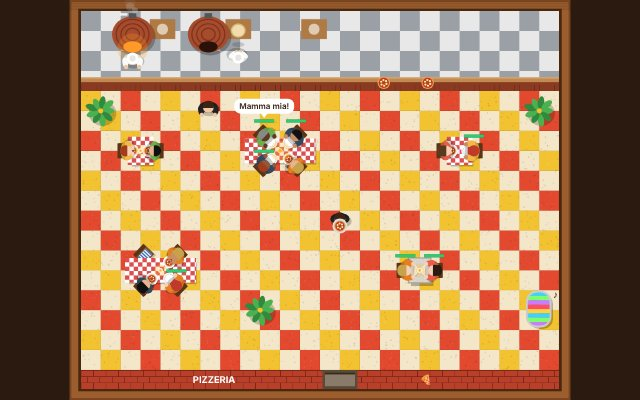
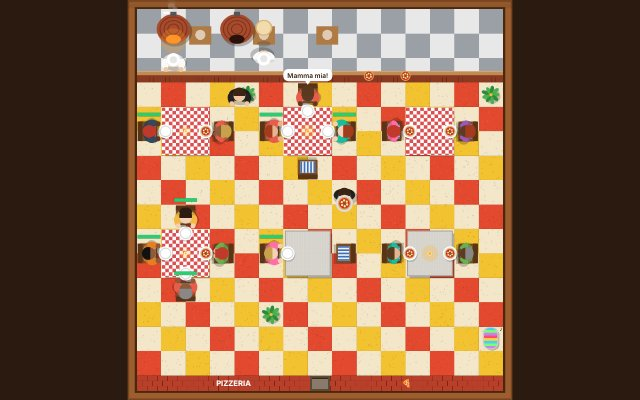
Pizzabaas: kleinere zaak van 15 x 15 grotere tegels, zoals in het origineel
Claude-Session: https://claude.ai/code/session_016yiCbYbiJxj3wDkRW1beUn

diff --git a/pizzabaas.html b/pizzabaas.html
@@ -87,23 +87,28 @@ const lees = (k) => { try { return JSON.parse(localStorage.getItem(k)); } catch 
 const schrijf = (k, v) => { try { localStorage.setItem(k, JSON.stringify(v)); } catch (e) {} };
 
 // ---------- de wereld ----------
-const W = 12, H = 9, T = 64;          // vakjes en pixels per vakje
-const KEUKEN = 2;                     // rijen 0 en 1
-const DEUR = { x: 6, y: 8 };          // de deur zit in de onderste muur
+const W = 15, H = 15, T = 48;         // 15 x 15 vloertegels (zoals in het oude spel), pixels per tegel
+const KEUKEN = 3;                     // rijen 0 t/m 2 zijn de keuken
+const DEUR = { x: 7, y: 15 };         // de deur zit in de onderste muur
 const DAG = 120;                      // seconden per werkdag
 const HUUR = 60, LOON = 15, PRIJS = 9, BAKTIJD = 5, ETEN = 8, GEDULD = 25;
 
 const SPUL = {
-  tafel2: { n: 'Tafeltje voor 2', ik: '🪑', prijs: 50, w: 1, h: 1 },
-  tafel4: { n: 'Tafel voor 4', ik: '🍽', prijs: 90, w: 2, h: 1 },
+  tafel2: { n: 'Tafeltje voor 2', ik: '🪑', prijs: 50, w: 4, h: 2 }, // stoel, tafel van 2 x 2, stoel
+  tafel4: { n: 'Tafel voor 4', ik: '🍽', prijs: 90, w: 4, h: 4 },  // tafel van 2 x 2 met aan elke kant een stoel
   plant: { n: 'Plant', ik: '🪴', prijs: 20, w: 1, h: 1 },
   jukebox: { n: 'Jukebox', ik: '🎵', prijs: 150, w: 1, h: 1, een: true },
 };
 const EXTRA = { kleed: { n: 'Kleedje', ik: '🟥', prijs: 10 }, kaars: { n: 'Kaarsje', ik: '🕯', prijs: 8 } };
 const PERSONEEL = { oven: { n: 'Extra oven', ik: '🔥', prijs: 250, max: 3 }, ober: { n: 'Extra ober', ik: '🤵', prijs: 200, max: 3, loon: true } };
 
-const NIEUW = () => ({ geld: 300, dag: 1, rep: 20, ovens: 1, obers: 1, spullen: [{ t: 'tafel2', x: 3, y: 4 }, { t: 'tafel2', x: 8, y: 4 }], best: 0 });
+const BEGIN = () => [{ t: 'tafel2', x: 2, y: 6 }, { t: 'tafel2', x: 9, y: 6 }];
+const NIEUW = () => ({ versie: 2, geld: 300, dag: 1, rep: 20, ovens: 1, obers: 1, spullen: BEGIN(), best: 0 });
 let S = lees(SLEUTEL) || (speler && lees('pizzabaas')) || NIEUW();
+if (S.versie != 2) { // de zaak is kleiner geworden met grotere tegels: oude spullen terugbetalen en opnieuw beginnen met twee tafeltjes
+  S.geld += S.spullen.reduce((a, s) => a + (SPUL[s.t] ? SPUL[s.t].prijs : 0) + (s.kleed ? 10 : 0) + (s.kaars ? 8 : 0), 0) - 100;
+  S.spullen = BEGIN(); S.versie = 2;
+}
 const bewaar = () => { if (!TEGEL) schrijf(SLEUTEL, S); };
 
 // ---------- teksten ----------
@@ -121,7 +126,7 @@ const ZEG = {
 const vrij = (x, y, w, h, behalve) => {
   for (let i = 0; i < w; i++) for (let j = 0; j < h; j++) {
     const a = x + i, b = y + j;
-    if (a < 0 || a >= W || b < KEUKEN || b >= H - 1) return false;
+    if (a < 0 || a >= W || b < KEUKEN || b >= H) return false;
     if (a == DEUR.x && b == DEUR.y - 1) return false; // voor de deur vrijhouden
     for (const s of S.spullen) if (s != behalve && a >= s.x && a < s.x + SPUL[s.t].w && b >= s.y && b < s.y + SPUL[s.t].h) return false;
   }
@@ -129,15 +134,16 @@ const vrij = (x, y, w, h, behalve) => {
 };
 const op = (x, y) => S.spullen.find((s) => x >= s.x && x < s.x + SPUL[s.t].w && y >= s.y && y < s.y + SPUL[s.t].h);
 const isTafel = (s) => s.t == 'tafel2' || s.t == 'tafel4';
-function stoelen(s) { // plekken (in vakjes, middelpunt) waar klanten zitten
-  if (s.t == 'tafel2') return [[s.x + 0.14, s.y + 0.5], [s.x + 0.86, s.y + 0.5]];
-  if (s.t == 'tafel4') return [[s.x + 0.6, s.y + 0.12], [s.x + 1.4, s.y + 0.12], [s.x + 0.6, s.y + 0.88], [s.x + 1.4, s.y + 0.88]];
+function stoelen(s) { // plekken (in tegels, middelpunt) waar klanten zitten
+  if (s.t == 'tafel2') return [[s.x + 0.5, s.y + 1], [s.x + 3.5, s.y + 1]];
+  if (s.t == 'tafel4') return [[s.x + 2, s.y + 0.5], [s.x + 2, s.y + 3.5], [s.x + 0.5, s.y + 2], [s.x + 3.5, s.y + 2]];
   return [];
 }
+const midden = (s) => [s.x + SPUL[s.t].w / 2, s.y + SPUL[s.t].h / 2];
 function gezellig(s) { // 1 tot 6 sterretjes
   let g = 1 + (s.kleed ? 1 : 0) + (s.kaars ? 1 : 0);
-  const cx = s.x + SPUL[s.t].w / 2, cy = s.y + 0.5;
-  g += Math.min(2, S.spullen.filter((p) => p.t == 'plant' && Math.hypot(p.x + 0.5 - cx, p.y + 0.5 - cy) <= 2.3).length);
+  const [cx, cy] = midden(s);
+  g += Math.min(2, S.spullen.filter((p) => p.t == 'plant' && Math.hypot(p.x + 0.5 - cx, p.y + 0.5 - cy) <= 3.6).length);
   if (S.spullen.some((p) => p.t == 'jukebox')) g += 1;
   return g;
 }
@@ -150,28 +156,28 @@ let tel = {};
 let kies = null; // wat er gekocht en neergezet wordt
 
 function maakPersoneel() {
-  obers = []; for (let i = 0; i < S.obers; i++) obers.push({ x: 6 + i * 0.7, y: 2.4, thuis: [6 + i * 0.7, 2.4], taak: null, draagt: null });
+  obers = []; for (let i = 0; i < S.obers; i++) obers.push({ x: 7 + i, y: KEUKEN + 0.5, thuis: [7 + i, KEUKEN + 0.5], taak: null, draagt: null });
   ovens = []; for (let i = 0; i < S.ovens; i++) ovens.push(maakOven(i));
 }
 // per oven een kok: die rolt het deeg uit en gooit het op (aan de werkbank naast de oven), schuift de pizza in de oven
 // en brengt hem als hij klaar is naar de toonbank, waar een ober hem ophaalt
-const KOK_HUIS = (i) => [1.3 + i * 1.9, 1.2], BANK = (i) => [2.05 + i * 1.9, 1.15], TOONBANK = (i) => [7.6 + i * 1.1, 1.6];
-function maakOven(i) { const [x, y] = KOK_HUIS(i); return { i, x: 1.3 + i * 1.9, bezig: null, t: 0, fase: 'leeg', kok: { x, y, kijk: Math.PI / 2 } }; }
+const KOK_HUIS = (i) => [1.5 + i * 2.6, 2.1], BANK = (i) => [2.6 + i * 2.6, 2], TOONBANK = (i) => [9.5 + i * 1.5, 2.6];
+function maakOven(i) { const [x, y] = KOK_HUIS(i); return { i, x: 1.5 + i * 2.6, bezig: null, t: 0, fase: 'leeg', kok: { x, y, kijk: Math.PI / 2 } }; }
 const DEEG = 1.6;
 function stapOven(o, dt) {
   const k = o.kok;
   if (o.fase == 'leeg') {
-    beweeg(k, KOK_HUIS(o.i), 1.6, dt); k.poets = (k.poets || 0) + dt;
+    beweeg(k, KOK_HUIS(o.i), 2.2, dt); k.poets = (k.poets || 0) + dt;
     const b = wachtrij.shift(); if (b) { o.bezig = b; o.t = 0; o.fase = 'deeg'; }
   } else if (o.fase == 'deeg') { // naar de werkbank, deeg uitrollen en opgooien
-    if (beweeg(k, BANK(o.i), 1.8, dt)) { o.t += dt; k.gooi = o.t; if (o.t >= DEEG) { o.fase = 'inschuiven'; k.gooi = 0; } }
+    if (beweeg(k, BANK(o.i), 2.4, dt)) { o.t += dt; k.gooi = o.t; if (o.t >= DEEG) { o.fase = 'inschuiven'; k.gooi = 0; } }
   } else if (o.fase == 'inschuiven') {
-    if (beweeg(k, [o.x, 1.05], 1.8, dt)) { o.fase = 'bak'; o.t = 0; ding(300, 0.08, 'triangle', 0.05); }
+    if (beweeg(k, [o.x, 1.7], 2.4, dt)) { o.fase = 'bak'; o.t = 0; ding(300, 0.08, 'triangle', 0.05); }
   } else if (o.fase == 'bak') {
-    o.t += dt; beweeg(k, KOK_HUIS(o.i), 1.2, dt);
+    o.t += dt; beweeg(k, KOK_HUIS(o.i), 1.8, dt);
     if (o.t >= BAKTIJD - DEEG) { o.fase = 'breng'; k.draagt = true; ding(1200, 0.05); }
   } else if (o.fase == 'breng') {
-    if (beweeg(k, TOONBANK(o.i), 2, dt)) { o.bezig.plek = TOONBANK(o.i); klaar.push(o.bezig); o.bezig = null; k.draagt = false; o.fase = 'leeg'; }
+    if (beweeg(k, TOONBANK(o.i), 2.8, dt)) { o.bezig.plek = TOONBANK(o.i); klaar.push(o.bezig); o.bezig = null; k.draagt = false; o.fase = 'leeg'; }
   }
   if (o.bezig && !mensen.includes(o.bezig.m)) { o.bezig = null; k.draagt = false; k.gooi = 0; o.fase = 'leeg'; } // klant al weg
 }
@@ -248,7 +254,7 @@ function stap(dt) {
 
   for (const m of [...mensen]) {
     m.t += dt;
-    if (m.st == 'loop' && beweeg(m, m.doel, 2.2, dt)) {
+    if (m.st == 'loop' && beweeg(m, m.doel, 3, dt)) {
       m.st = 'wacht'; m.t = 0; m.bestelling = { m, klaar: false };
       wachtrij.push(m.bestelling);
       if (Math.random() < 0.25) { const g = gezellig(m.tafel); if (g >= 4) zeg(m, R(ZEG.gezellig)); else if (g <= 1) zeg(m, R(ZEG.kaal)); }
@@ -262,18 +268,18 @@ function stap(dt) {
       S.geld += PRIJS + fooi; tel.omzet += PRIJS; tel.fooi += fooi; tel.blij++; S.rep = Math.min(100, S.rep + (m.wacht < 12 ? 0.8 : 0.3));
       muntjes.push({ x: m.x, y: m.y, t: 1.2, tekst: '+€' + Math.round(PRIJS + fooi) }); kassa();
       m.st = 'weg'; m.doel = [DEUR.x + 0.5, H + 0.6];
-    } else if (m.st == 'weg' && beweeg(m, m.doel, 2.2, dt)) mensen.splice(mensen.indexOf(m), 1);
+    } else if (m.st == 'weg' && beweeg(m, m.doel, 3, dt)) mensen.splice(mensen.indexOf(m), 1);
   }
   // ovens bakken wat er besteld is
   for (const o of ovens) stapOven(o, dt);
   // obers brengen de pizza's rond
   for (const ob of obers) {
     if (!ob.taak && klaar.length) { ob.taak = klaar.shift(); ob.fase = 'halen'; ob.taak.m.onderweg = true; }
-    if (!ob.taak) { beweeg(ob, ob.thuis, 2.6, dt); continue; }
+    if (!ob.taak) { beweeg(ob, ob.thuis, 3.4, dt); continue; }
     const m = ob.taak.m;
     if (!mensen.includes(m) || m.st != 'wacht') { ob.taak = null; ob.draagt = null; continue; }
-    if (ob.fase == 'halen') { if (beweeg(ob, [ob.taak.plek[0], 2.3], 2.6, dt)) { ob.fase = 'brengen'; ob.draagt = true; } }
-    else if (beweeg(ob, [m.x + (m.x < m.tafel.x + SPUL[m.tafel.t].w / 2 ? 0.35 : -0.35), m.y], 2.6, dt)) {
+    if (ob.fase == 'halen') { if (beweeg(ob, [ob.taak.plek[0], KEUKEN + 0.4], 3.4, dt)) { ob.fase = 'brengen'; ob.draagt = true; } }
+    else if (beweeg(ob, [m.x + (m.x < midden(m.tafel)[0] ? -0.6 : 0.6) * (m.tafel.t == 'tafel2' ? 1 : 0), m.y + (m.tafel.t == 'tafel4' ? (m.y < midden(m.tafel)[1] ? -0.6 : 0.6) : 0.7)], 3.4, dt)) {
       m.st = 'eet'; m.wacht = m.t; tel.wacht += m.t; tel.wachtN++; m.t = 0; m.onderweg = false; ob.taak = null; ob.draagt = null;
       if (Math.random() < 0.35) zeg(m, R(ZEG.eten));
     }
@@ -305,17 +311,17 @@ const achter = document.createElement('canvas'); achter.width = WW; achter.heigh
   const a = achter.getContext('2d');
   let zaad = 7; const rnd = () => (zaad = (zaad * 16807) % 2147483647) / 2147483647;
   // vloer: tegeltjes van een half vakje, om en om wit met rood of geel
-  const t = T / 2;
-  for (let y = KEUKEN * 2; y < H * 2; y++) for (let x = 0; x < W * 2; x++) {
+  const t = T;
+  for (let y = KEUKEN; y < H; y++) for (let x = 0; x < W; x++) {
     a.fillStyle = (x + y) % 2 ? '#f3e6c9' : (Math.floor(x / 2) + Math.floor(y / 2)) % 2 ? '#e2492f' : '#f2c230';
     a.fillRect(x * t, y * t, t, t);
-    for (let k = 0; k < 14; k++) { a.fillStyle = `rgba(${rnd() < 0.5 ? '0,0,0' : '255,255,255'},${0.05 + rnd() * 0.08})`; a.fillRect(x * t + rnd() * t, y * t + rnd() * t, 2, 2); }
+    for (let k = 0; k < 30; k++) { a.fillStyle = `rgba(${rnd() < 0.5 ? '0,0,0' : '255,255,255'},${0.05 + rnd() * 0.08})`; a.fillRect(x * t + rnd() * t, y * t + rnd() * t, 2, 2); }
     a.fillStyle = 'rgba(0,0,0,.08)'; a.fillRect(x * t, y * t + t - 1, t, 1); a.fillRect(x * t + t - 1, y * t, 1, t);
   }
   // keuken: grijs-witte tegels
-  for (let y = 0; y < KEUKEN * 2; y++) for (let x = 0; x < W * 2; x++) { a.fillStyle = (x + y) % 2 ? '#e8e8e8' : '#9aa0a6'; a.fillRect(x * t, y * t, t, t); }
+  for (let y = 0; y < KEUKEN; y++) for (let x = 0; x < W; x++) { a.fillStyle = (x + y) % 2 ? '#e8e8e8' : '#9aa0a6'; a.fillRect(x * t, y * t, t, t); }
   // werkbanken met deeg en meel
-  for (let i = 0; i < 3; i++) { const [bx, by] = BANK(i); a.fillStyle = '#b07a45'; a.fillRect((bx - 0.32) * T, (by - 0.95) * T, 0.64 * T, 0.5 * T); a.fillStyle = 'rgba(255,255,255,.6)'; a.beginPath(); a.arc(bx * T, (by - 0.7) * T, 9, 0, 7); a.fill(); }
+  for (let i = 0; i < 3; i++) { const [bx, by] = BANK(i); a.fillStyle = '#b07a45'; a.fillRect((bx - 0.45) * T, (by - 1.3) * T, 0.9 * T, 0.75 * T); a.fillStyle = 'rgba(255,255,255,.6)'; a.beginPath(); a.arc(bx * T, (by - 0.95) * T, 10, 0, 7); a.fill(); }
   // toonbank: houten blad op bakstenen
   a.fillStyle = '#8b3a22'; a.fillRect(0, KEUKEN * T - 20, WW, 20);
   a.fillStyle = 'rgba(0,0,0,.25)'; for (let x = 0; x < WW; x += 16) a.fillRect(x + ((x / 16) % 2) * 8, KEUKEN * T - 10, 1, 10);
@@ -335,7 +341,7 @@ function pizza(x, y, r, half) {
   g.fillStyle = '#3c8d2f'; for (let i = 0; i < 3; i++) { const a = i * 2.1 + 1; g.beginPath(); g.arc(x + Math.cos(a) * r * 0.25, y + Math.sin(a) * r * 0.25, r * 0.1, 0, 7); g.fill(); }
   if (half) { g.fillStyle = '#fff'; g.beginPath(); g.moveTo(x, y); g.arc(x, y, r + 1, -0.3, 2.2); g.fill(); }
 }
-function bord(x, y, vol, half) { g.fillStyle = 'rgba(0,0,0,.15)'; g.beginPath(); g.arc(x + 1, y + 2, 10, 0, 7); g.fill(); g.fillStyle = '#fff'; g.beginPath(); g.arc(x, y, 10, 0, 7); g.fill(); g.strokeStyle = '#d8d8d8'; g.lineWidth = 1.5; g.beginPath(); g.arc(x, y, 7.5, 0, 7); g.stroke(); if (vol) pizza(x, y, 7, half); }
+function bord(x, y, vol, half) { g.save(); g.translate(x, y); g.scale(1.4, 1.4); x = 0; y = 0; g.fillStyle = 'rgba(0,0,0,.15)'; g.beginPath(); g.arc(x + 1, y + 2, 10, 0, 7); g.fill(); g.fillStyle = '#fff'; g.beginPath(); g.arc(x, y, 10, 0, 7); g.fill(); g.strokeStyle = '#d8d8d8'; g.lineWidth = 1.5; g.beginPath(); g.arc(x, y, 7.5, 0, 7); g.stroke(); if (vol) pizza(x, y, 7, half); g.restore(); }
 // een poppetje van bovenaf dat de kant van `kijk` op kijkt: schouders, armpjes, hoofd met haar aan de achterkant
 function poppetje(p, opties = {}) {
   const kijk = p.kijk ?? Math.PI / 2, loop = p.loopT ? Math.sin(p.loopT * 12) : 0;
@@ -355,16 +361,17 @@ function poppetje(p, opties = {}) {
   g.restore();
   if (opties.draagt) { g.fillStyle = '#ddd'; g.beginPath(); g.arc(Math.cos(kijk) * 16, Math.sin(kijk) * 16 - 4, 12, 0, 7); g.fill(); pizza(Math.cos(kijk) * 16, Math.sin(kijk) * 16 - 4, 9); }
 }
+const MENS = 1.4; // poppetjes zijn ongeveer een tegel groot, net als in het oude spel
 const naarScherm = (x, y) => [ox + x * T * schaal, oy + y * T * schaal];
 function ober(o) {
   const [x, y] = naarScherm(o.x, o.y);
-  g.save(); g.translate(x, y); g.scale(schaal, schaal);
+  g.save(); g.translate(x, y); g.scale(schaal * MENS, schaal * MENS);
   poppetje({ kleur: '#222', huid: '#f0c7a2', haar: '#3b2414', loopT: o.loopT, kijk: o.kijk }, { draagt: o.draagt, armen: o.draagt ? 0.8 : 0 });
   g.restore();
 }
 function kok(k, nu) {
   const [x, y] = naarScherm(k.x, k.y);
-  g.save(); g.translate(x, y); g.scale(schaal, schaal);
+  g.save(); g.translate(x, y); g.scale(schaal * MENS, schaal * MENS);
   const werkt = k.gooi > 0;
   if (werkt) k.kijk = -Math.PI / 2; // naar de werkbank
   poppetje({ kleur: '#fafafa', huid: '#f0c7a2', haar: '#3b2414', muts: true, loopT: k.loopT, kijk: k.kijk }, { draagt: k.draagt, armen: werkt ? 0.9 + Math.sin(nu / 60) * 0.3 : 0 });
@@ -390,7 +397,7 @@ function teken(nu) {
   // ovens: stenen koepels met vuur
   const ovs = modus == 'inrichten' ? Array.from({ length: S.ovens }, (_, i) => maakOven(i)) : ovens;
   for (const o of ovs) {
-    const x = o.x * T, y = 0.08 * T;
+    const x = o.x * T, y = 0.15 * T;
     g.fillStyle = 'rgba(0,0,0,.25)'; g.beginPath(); g.ellipse(x + 3, y + 36, 34, 30, 0, 0, 7); g.fill();
     g.fillStyle = '#a84a2c'; g.beginPath(); g.ellipse(x, y + 32, 33, 29, 0, 0, 7); g.fill();
     g.strokeStyle = '#7a3520'; g.lineWidth = 2; for (let r = 10; r < 30; r += 7) { g.beginPath(); g.ellipse(x, y + 32, r * 1.1, r, 0, 0, 7); g.stroke(); }
@@ -434,7 +441,7 @@ function teken(nu) {
   }
 }
 function stoel(x, y, hoek) { // van bovenaf: houten stoeltje met gestreepte zitting, leuning aan de kant van `hoek`
-  g.save(); g.translate(x, y); g.rotate(hoek);
+  g.save(); g.translate(x, y); g.rotate(hoek); g.scale(1.6, 1.6);
   g.fillStyle = 'rgba(0,0,0,.2)'; g.fillRect(-11, -9, 24, 22);
   g.fillStyle = '#7a4a22'; g.fillRect(-12, -12, 24, 22);
   g.fillStyle = '#eef3f8'; g.fillRect(-9, -6, 18, 14);
@@ -442,8 +449,9 @@ function stoel(x, y, hoek) { // van bovenaf: houten stoeltje met gestreepte zitt
   g.fillStyle = '#5a3416'; g.fillRect(-12, -14, 24, 6); // leuning
   g.restore();
 }
-function tekenSpul(s, nu, zitten) {
-  const x = s.x * T, y = s.y * T;
+// plant en jukebox, getekend op een vakje van 64 x 64 (wordt geschaald naar de tegel)
+function tekenKlein(s, nu) {
+  const x = 0, y = 0;
   if (s.t == 'plant') {
     g.fillStyle = 'rgba(0,0,0,.2)'; g.beginPath(); g.ellipse(x + 35, y + 36, 22, 20, 0, 0, 7); g.fill();
     g.fillStyle = '#c7782e'; g.beginPath(); g.arc(x + 32, y + 32, 15, 0, 7); g.fill();
@@ -460,12 +468,15 @@ function tekenSpul(s, nu, zitten) {
     if (modus != 'inrichten') { g.fillStyle = '#3a2414'; g.font = '16px system-ui'; g.textAlign = 'center'; g.fillText('♪', x + 58, y + 14 + Math.sin(nu / 200) * 4); }
     return;
   }
+}
+function tekenSpul(s, nu, zitten) {
+  const x = s.x * T, y = s.y * T;
+  if (s.t == 'plant' || s.t == 'jukebox') { g.save(); g.translate(x, y); g.scale(T / 64, T / 64); tekenKlein(s, nu); g.restore(); return; }
   // stoelen (leuning van de tafel af)
-  const cx = x + SPUL[s.t].w * T / 2, cy = y + T / 2;
+  const cx = midden(s)[0] * T, cy = midden(s)[1] * T;
   for (const [sx, sy] of stoelen(s)) stoel(sx * T, sy * T, Math.atan2(sy * T - cy, sx * T - cx) - Math.PI / 2 + Math.PI);
   // tafelblad: lichtgrijs gemêleerd, of met een rood-wit kleed
-  const w = SPUL[s.t].w * T;
-  const tx = s.t == 'tafel2' ? x + 14 : x + 10, ty = s.t == 'tafel2' ? y + 12 : y + 15, tw = s.t == 'tafel2' ? 36 : w - 20, th = s.t == 'tafel2' ? 40 : T - 30;
+  const tx = cx - T + 4, ty = cy - T + 4, tw = 2 * T - 8, th = 2 * T - 8;
   g.fillStyle = 'rgba(0,0,0,.25)'; g.fillRect(tx + 4, ty + 5, tw, th);
   g.fillStyle = '#d6d2cc'; g.fillRect(tx, ty, tw, th);
   g.fillStyle = 'rgba(255,255,255,.35)'; for (let i = 0; i < tw; i += 5) for (let j = (i % 2) * 2; j < th; j += 5) g.fillRect(tx + i, ty + j, 1.5, 1.5);
@@ -492,8 +503,8 @@ function tekenSpul(s, nu, zitten) {
 function tekenMens(m, nu) {
   const [x, y] = naarScherm(m.x, m.y);
   const zit = m.st == 'wacht' || m.st == 'eet';
-  if (zit) { const t = m.tafel, cx = t.x + SPUL[t.t].w / 2, cy = t.y + 0.5; m.kijk = Math.atan2(cy - m.y, cx - m.x); m.loopT = 0; }
-  g.save(); g.translate(x, y); g.scale(schaal, schaal);
+  if (zit) { const [cx, cy] = midden(m.tafel); m.kijk = Math.atan2(cy - m.y, cx - m.x); m.loopT = 0; }
+  g.save(); g.translate(x, y); g.scale(schaal * MENS, schaal * MENS);
   poppetje(m, { armen: m.st == 'eet' ? 0.7 + Math.sin(nu / 150 + m.x * 5) * 0.25 : 0 });
   if (m.st == 'wacht') { // geduldbalkje
     const f = Math.max(0, 1 - m.t / m.geduld);
@@ -510,13 +521,13 @@ function naarVak(e) {
   const px = ((e.clientX - r.left) * dpr - ox) / schaal / T, py = ((e.clientY - r.top) * dpr - oy) / schaal / T;
   return { x: Math.floor(px), y: Math.floor(py), fx: px, fy: py };
 }
-doek.addEventListener('pointermove', (e) => { if (modus != 'inrichten' || !kies) return; const v = naarVak(e); const d = SPUL[kies]; hover = { x: Math.max(0, Math.min(W - d.w, v.x)), y: v.y }; });
+doek.addEventListener('pointermove', (e) => { if (modus != 'inrichten' || !kies) return; const v = naarVak(e); const d = SPUL[kies]; hover = { x: Math.max(0, Math.min(W - d.w, v.x - Math.floor(d.w / 2))), y: Math.max(KEUKEN, Math.min(H - d.h, v.y - Math.floor(d.h / 2))) }; });
 doek.addEventListener('pointerdown', (e) => {
   wekGeluid();
   if (modus != 'inrichten') return;
   const v = naarVak(e);
   if (kies) {
-    const d = SPUL[kies]; const x = Math.max(0, Math.min(W - d.w, v.x)), y = v.y;
+    const d = SPUL[kies]; const x = Math.max(0, Math.min(W - d.w, v.x - Math.floor(d.w / 2))), y = Math.max(KEUKEN, Math.min(H - d.h, v.y - Math.floor(d.h / 2)));
     hover = { x, y };
     if (e.pointerType != 'mouse' && (!laatsteTik || laatsteTik.x != x || laatsteTik.y != y)) { laatsteTik = { x, y }; return; } // aanraken: eerst de schaduw laten zien, tweede tik zet neer
     laatsteTik = null;
@@ -619,12 +630,12 @@ if (lees(SLEUTEL) && !TEGEL) { $('welkom').classList.add('verborgen'); tekenKnop
 
 if (TEGEL) { // plaatje voor de startpagina
   $('welkom').classList.add('verborgen');
-  S = { geld: 999, dag: 3, rep: 60, ovens: 2, obers: 2, spullen: [
-    { t: 'tafel2', x: 1, y: 3, kleed: 1, kaars: 1 }, { t: 'tafel4', x: 4, y: 3, kleed: 1, kaars: 1 }, { t: 'tafel2', x: 9, y: 3, kleed: 1 },
-    { t: 'tafel4', x: 1, y: 6, kleed: 1, kaars: 1 }, { t: 'tafel2', x: 8, y: 6, kaars: 1 }, { t: 'plant', x: 11, y: 2 }, { t: 'plant', x: 0, y: 2 }, { t: 'jukebox', x: 11, y: 7 }, { t: 'plant', x: 4, y: 7 } ] };
+  S = { versie: 2, geld: 999, dag: 3, rep: 60, ovens: 2, obers: 2, spullen: [
+    { t: 'tafel2', x: 0, y: 4, kleed: 1, kaars: 1 }, { t: 'tafel4', x: 5, y: 3, kleed: 1, kaars: 1 }, { t: 'tafel2', x: 10, y: 4, kleed: 1 },
+    { t: 'tafel4', x: 0, y: 8, kleed: 1, kaars: 1 }, { t: 'tafel2', x: 10, y: 9, kaars: 1 }, { t: 'plant', x: 14, y: 3 }, { t: 'plant', x: 4, y: 3 }, { t: 'jukebox', x: 14, y: 13 }, { t: 'plant', x: 5, y: 12 }, { t: 'tafel2', x: 5, y: 9 } ] };
   modus = 'open'; tel = { blij: 0, boos: 0, vol: 0, omzet: 0, fooi: 0, wacht: 0, wachtN: 0 }; maakPersoneel();
   for (const s of S.spullen.filter(isTafel)) stoelen(s).forEach((p, i) => { if (Math.random() < 0.8) { const m = maakMens(s, i); m.x = p[0]; m.y = p[1]; m.st = Math.random() < 0.6 ? 'eet' : 'wacht'; m.t = Math.random() * 3; m.geduld = 999; mensen.push(m); } });
-  klaar = [{ plek: TOONBANK(0) }, { plek: TOONBANK(1) }]; ovens[0].fase = 'bak'; ovens[0].t = 1; ovens[1].kok.x = BANK(1)[0]; ovens[1].kok.y = BANK(1)[1]; ovens[1].kok.gooi = 0.3; obers[0].x = 6.5; obers[0].y = 5.2; obers[0].draagt = true; obers[1].x = 3.2; obers[1].y = 2.4;
+  klaar = [{ plek: TOONBANK(0) }, { plek: TOONBANK(1) }]; ovens[0].fase = 'bak'; ovens[0].t = 1; ovens[1].kok.x = BANK(1)[0]; ovens[1].kok.y = BANK(1)[1]; ovens[1].kok.gooi = 0.3; obers[0].x = 8.5; obers[0].y = 7.6; obers[0].draagt = true; obers[1].x = 4.2; obers[1].y = 3.5;
   wolkjes.push({ m: mensen[2], tekst: 'Mamma mia!', t: 999 });
 }
 

diff --git a/CLAUDE.md b/CLAUDE.md
@@ -130,7 +130,9 @@ bedenk dat de site openbaar is.
   In elk level staat de zilveren oldtimer (eigen ontwerp zonder merk; geen Lucky Luke of Mercedes-logo, dat is beschermd):
   `auto: [x, y, schaal, draai]` per level, staat niet op het lijstje; gevonden = toeter + "Oh jee, daar is hij weer!" en een 🚗 bij het level.
 - Pizzabaas (`pizzabaas.html`, concept, idee van Pizza Tycoon maar met eigen naam en grappen): eigen pizzeria van bovenaf op een raster
-  van 12x9 (`W`, `H`, `T`; rij 0-1 keuken met ovens en kok, deur onderaan `DEUR`). Twee standen (`modus`): inrichten (spullen uit `SPUL`
+  van 15x15 vloertegels zoals in het oude spel (`W`, `H`, `T` = 48; rij 0-2 keuken met ovens en koks, deur onderaan `DEUR`). Tafeltje voor 2 = 4x2
+  tegels (stoel, tafel 2x2, stoel), tafel voor 4 = 4x4; poppetjes ongeveer een tegel groot (`MENS`). Oude opslag zonder `versie: 2` krijgt zijn
+  spullen terugbetaald en begint opnieuw met twee tafeltjes. Twee standen (`modus`): inrichten (spullen uit `SPUL`
   kopen en neerzetten: tafeltje voor 2, tafel voor 4, plant, jukebox; tik op een tafel = menu met kleedje/kaarsje (`EXTRA`), verplaatsen,
   verkopen; extra ovens en obers in `PERSONEEL`) en open (een werkdag van `DAG` = 120 s, 17:00-22:00). Klantengroepjes zoeken een vrije
   tafel (anders "vol", reputatie omlaag), bestellen, de oven bakt (`BAKTIJD`), een ober brengt de pizza, ze eten en betalen `PRIJS` plus fooi
